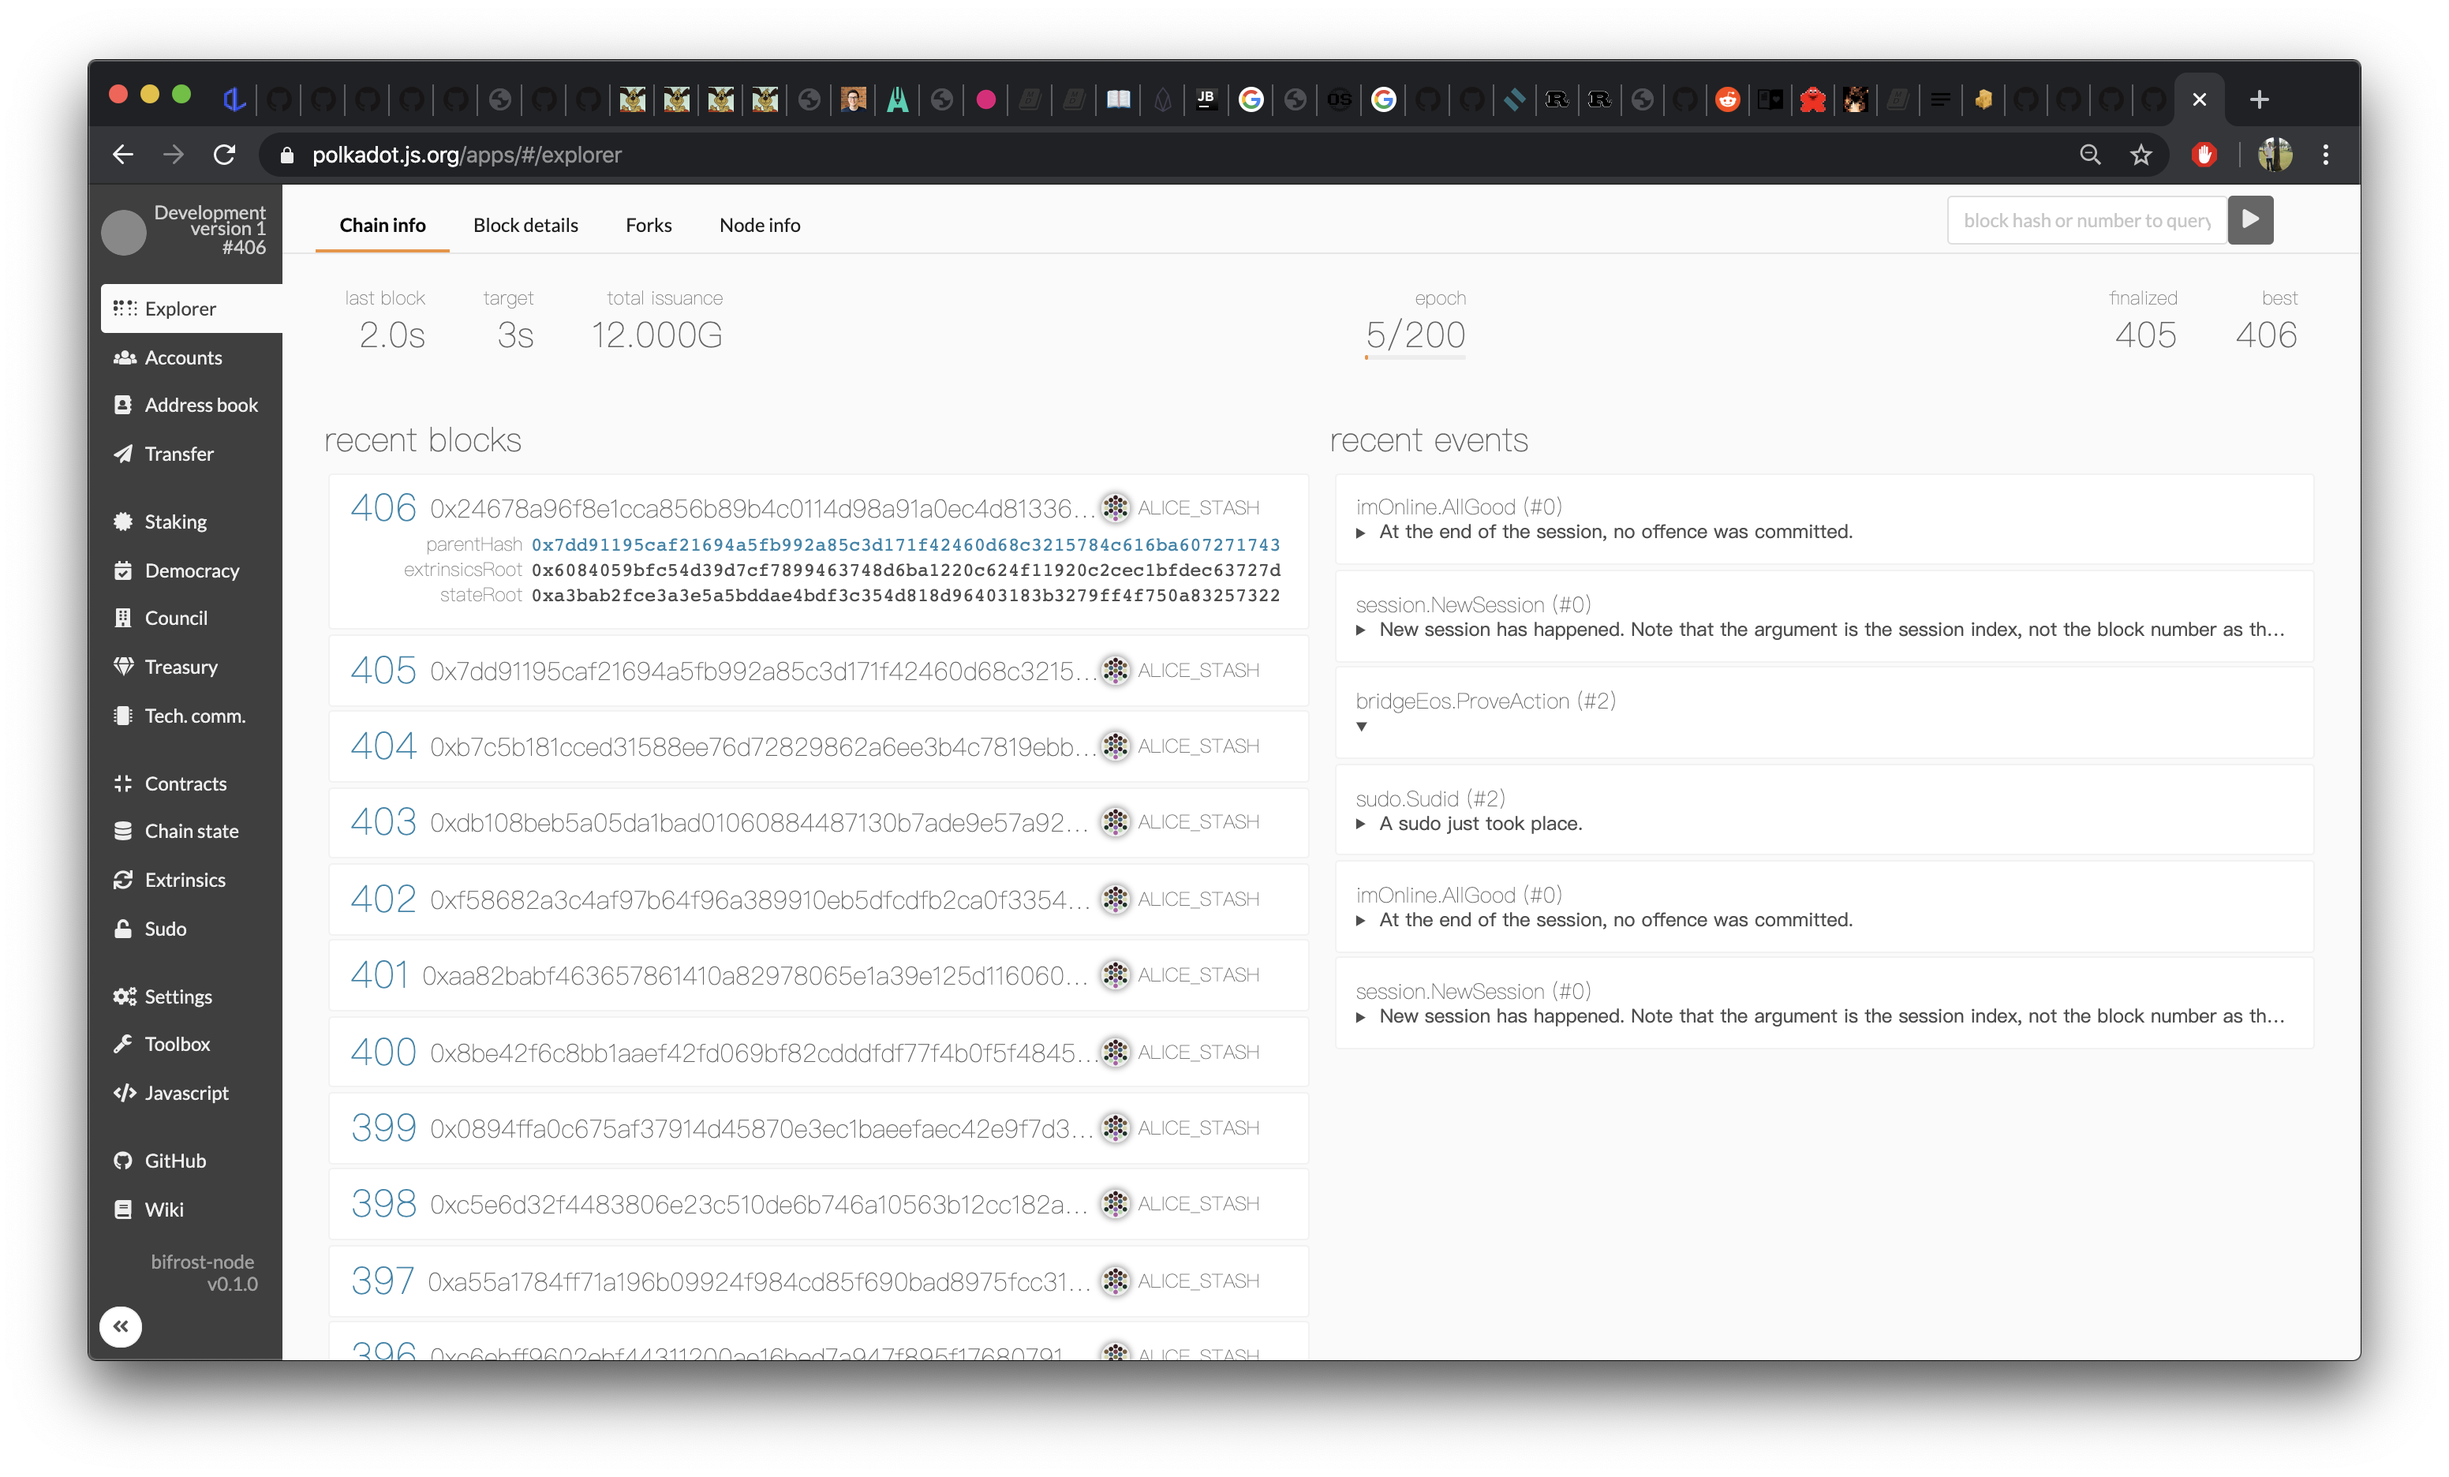
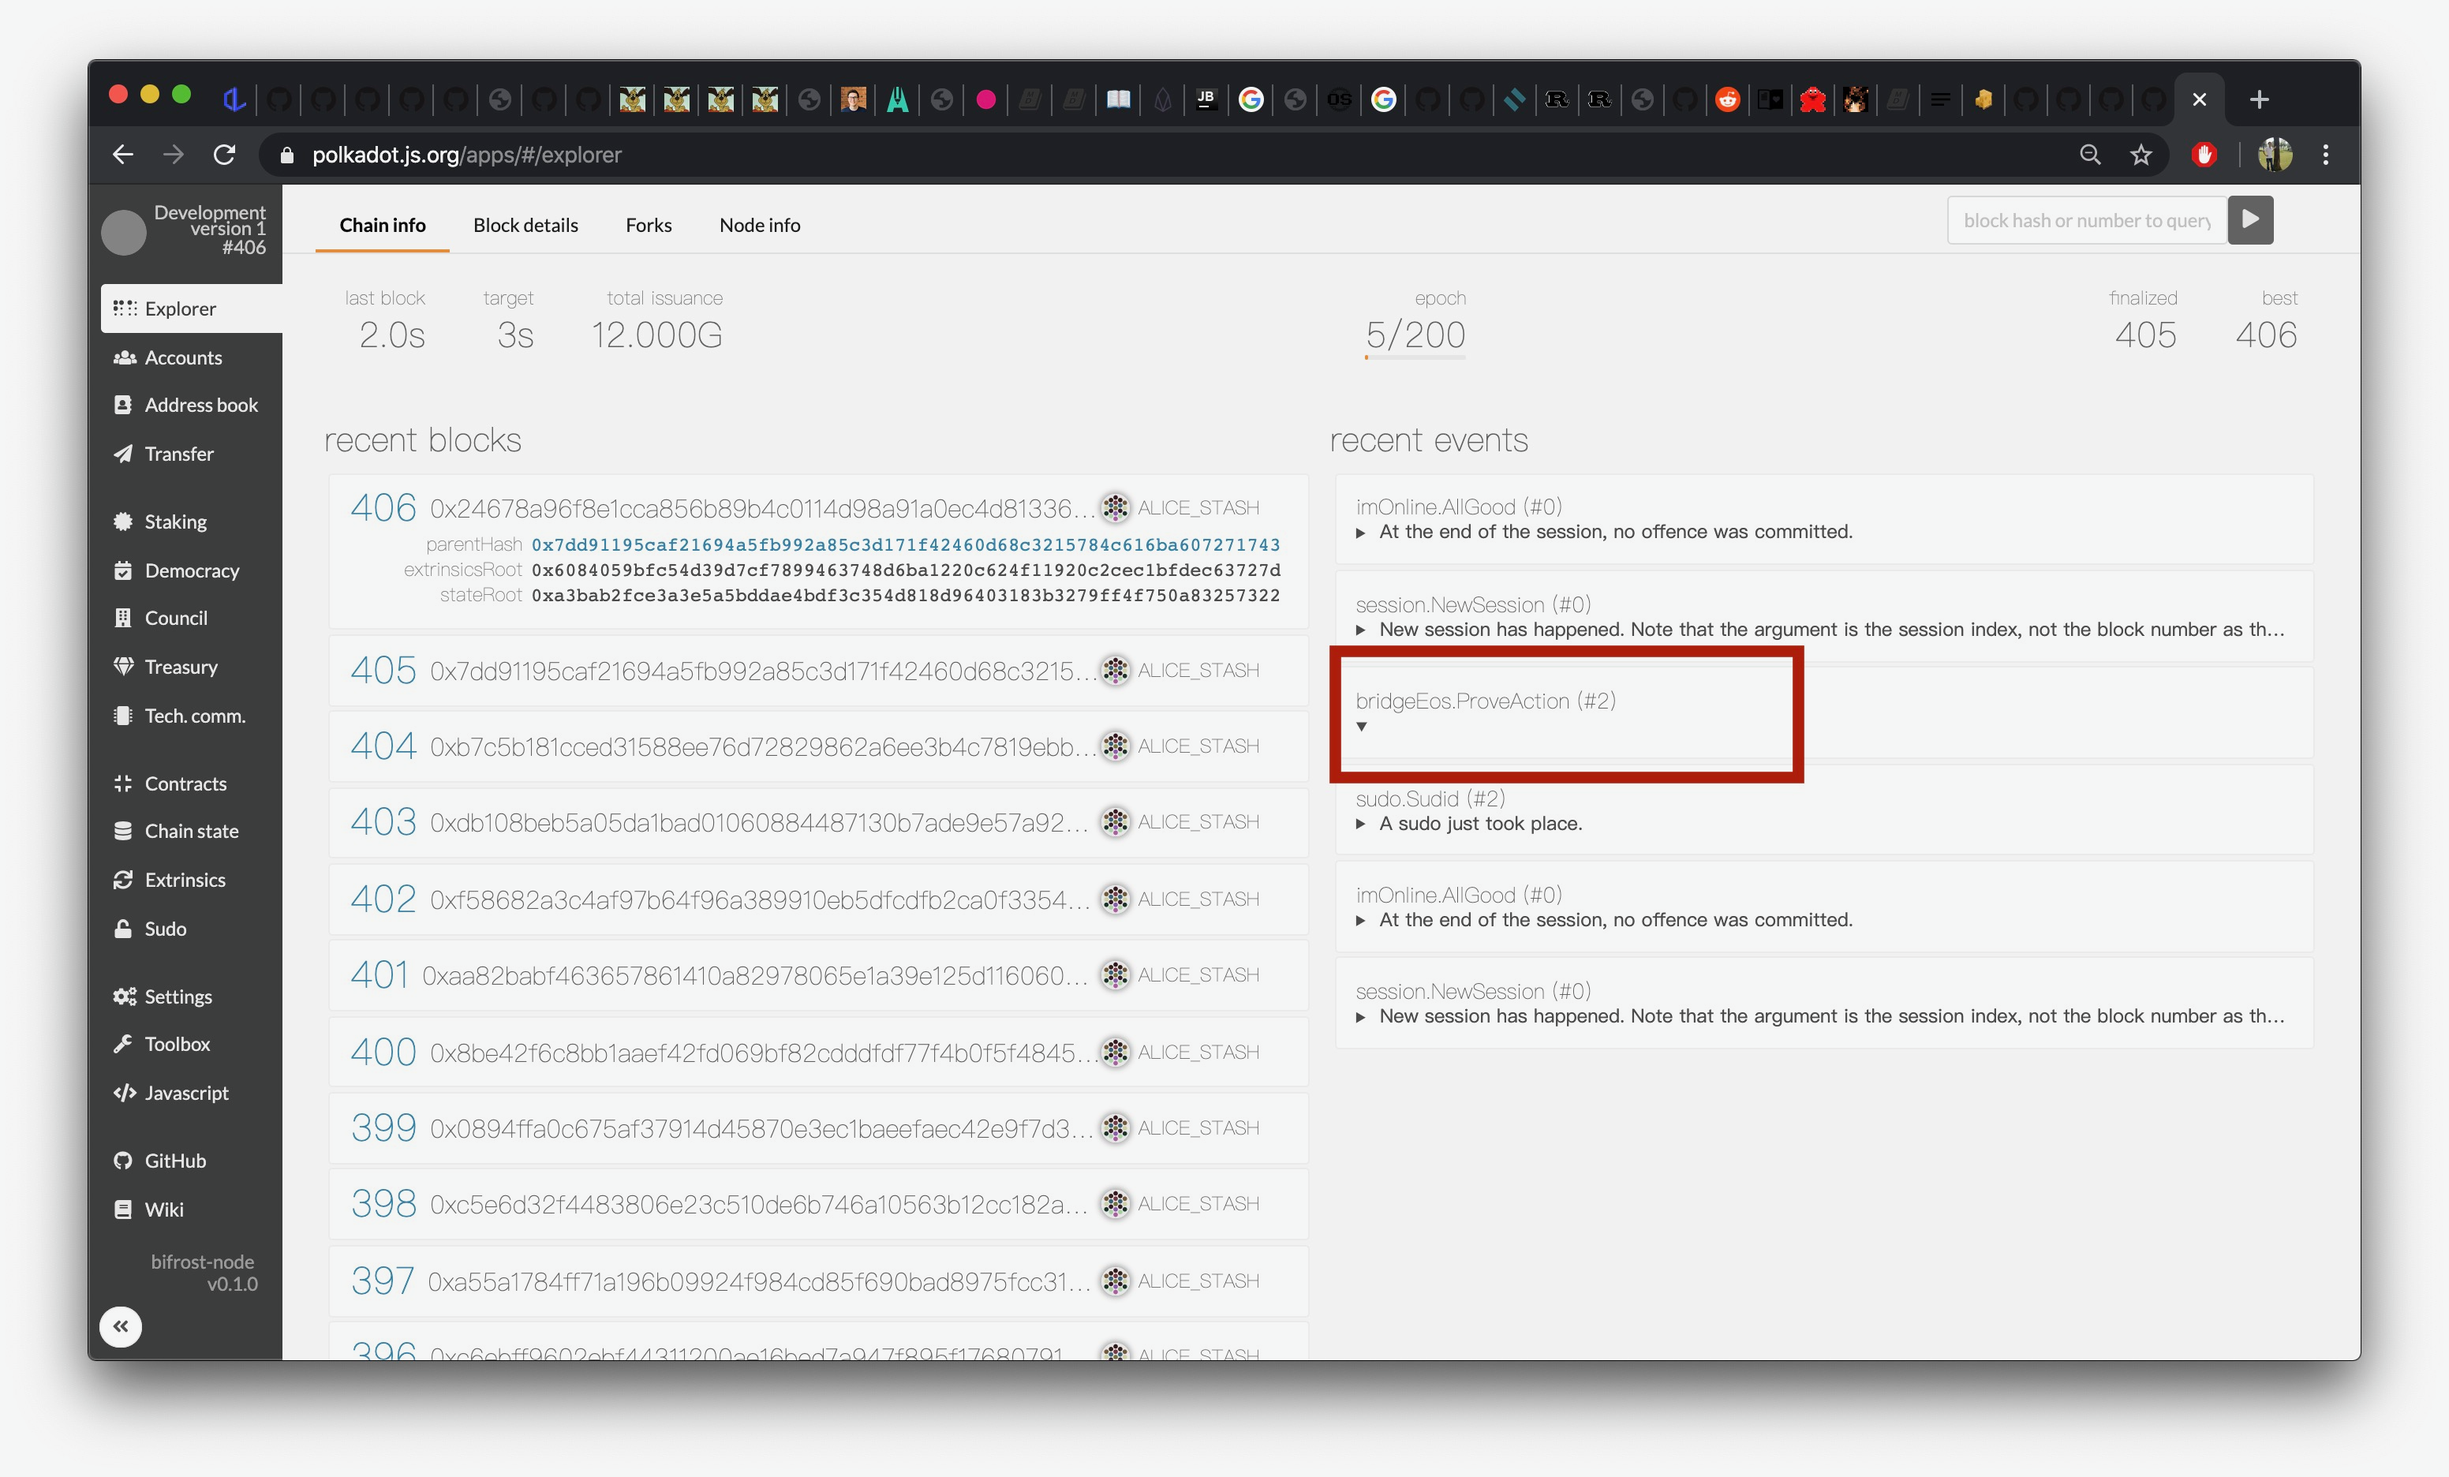
Update bifrost testing docs

Changed region(s): [[0.5312, 0.4338, 0.75, 0.5577]]

diff --git a/docs/README.md b/docs/README.md
@@ -86,7 +86,7 @@ $ cleos wallet unlock # prompt you input the password
 $ git clone -b bridge-plugin https://github.com/bifrost-codes/eos
 $ git submodule update --init --recursive
 $ cd eos/
-$ make build && cd build
+$ mkdir build && cd build
 $ cmake ..
 $ make -j4
 ```
@@ -135,7 +135,7 @@ $ ./build/bin/nodeos --delete-all-blocks --delete-state-history --delete-relay-h
 ```
 $ git clone https://github.com/bifrost-codes/bifrost-eos-contracts
 $ cd bifrost-eos-contracts
-$ make build && cd build
+$ mkdir build && cd build
 $ cmake ..
 $ make -j4
 ```
@@ -249,21 +249,15 @@ permissions:
 
 Now, we can send a transaction to EOS node.
 
-In present, we cannot trigger a transaction on [polkadot.js.org](https://polkadot.js.org/apps/#/extrinsics), but there's a temporary solution for it.
-
-The subkey has a sub-command that can send a transaction from bifrost node to EOS node.
-
-```
-# 127.0.0.1:9944 is a bifrost node websocket address 
-$ ./target/release/subkey send_transaction jim 1 127.0.0.1:9944
-```
+Follow the picture to send a transaction to EOS node( "jim" to hex: "0x6a696d").
+![send_transaction](transaction_to_eos.png)
 
 Check jim's and bifrost's balance in EOS node if it runs without error.
 
 ```
-# should print 9901 EOS
+# should print 9910 EOS
 $ cleos get currency balance eosio.token jim
 
-# should print 99 EOS
+# should print 90 EOS
 $ cleos get currency balance eosio.token bifrost
 ```
